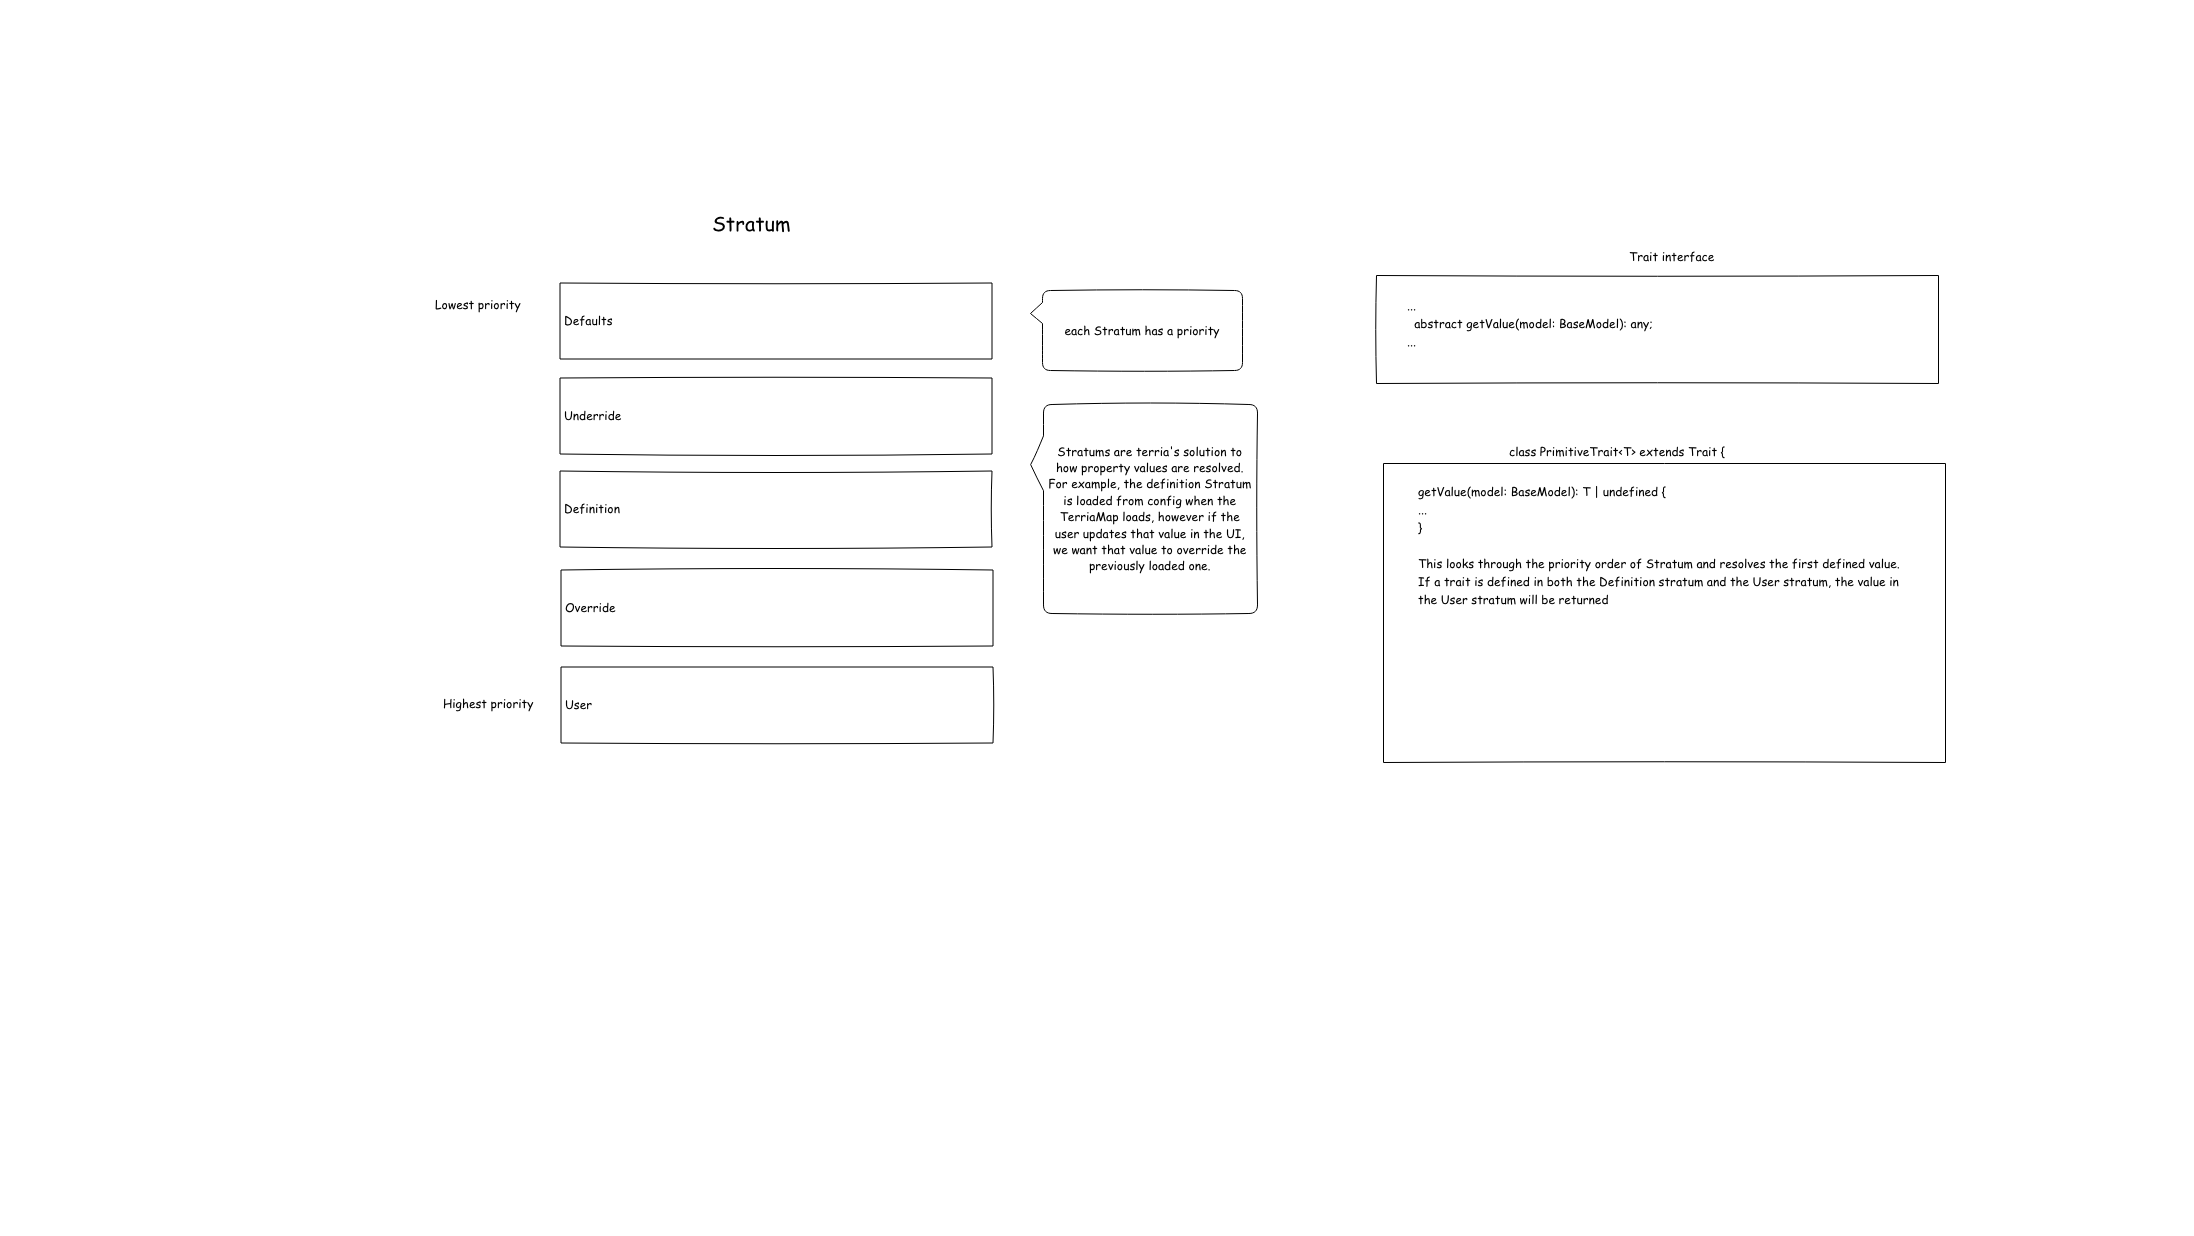
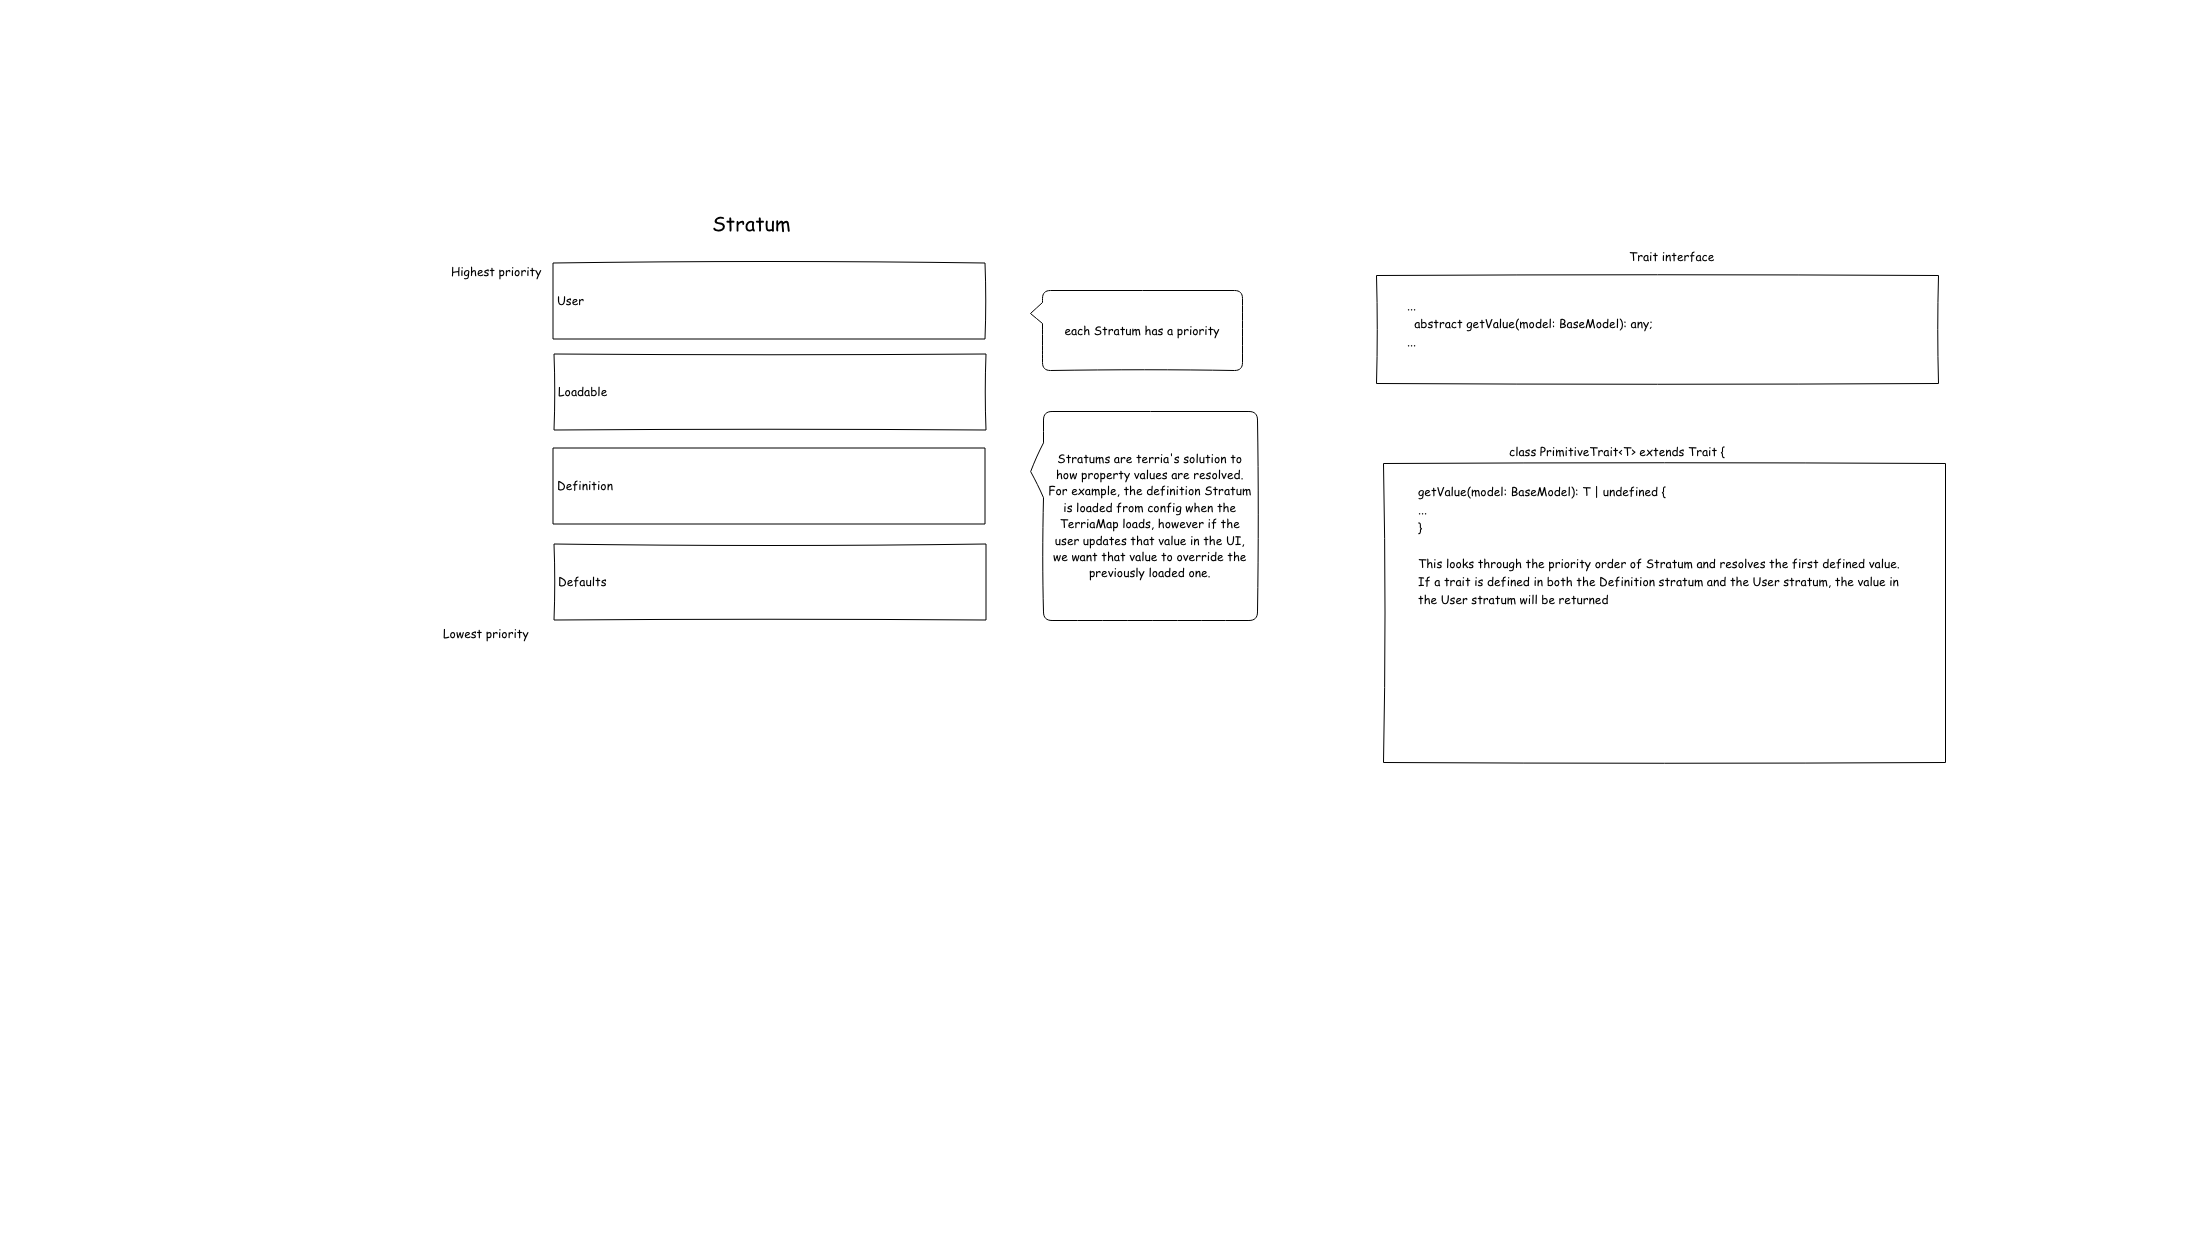
fixed pluralisation of Trait reordered Stratum to reflect what we have today

diff --git a/doc/contributing/traitsInDepth.md b/doc/contributing/traitsInDepth.md
@@ -1,13 +1,13 @@
 # Traits in Depth
 
-The Trait system is Terria's way of managing a priority order for state. For example, we might have a default opacity property from a config file that should be overriden by a user provided value. This article will go through how Traits are made, how the priority system works and how updates happen in the UI.
+The Traits system is Terria's way of managing a priority order for state. For example, we might have a default opacity property from a config file that should be overriden by a user provided value. This article will go through how Traits are made, how the priority system works and how updates happen in the UI.
 
-## Making a Trait
-![Making a trait](./img/making_a_trait.png)
+## Making Traits
+![Making Traits](./img/making_a_trait.png)
 
-For base traits such as `BaseMapsTraits`, we extend ModelTraits. However when composing multiple traits to form a new trait, we use the `mixTraits` function. For example, `ArcGisTerrainCatalogItemTraits` is composed out of `UrlTraits, MappableTraits, CatalogMemberTraits`.
+For base traits such as `BaseMapsTraits`, we extend ModelTraits. However when composing multiple traits, we use the `mixTraits` function. For example, `ArcGisTerrainCatalogItemTraits` is composed out of `UrlTraits, MappableTraits, CatalogMemberTraits`.
 
-When creating a new property within a Trait, we use [decorators](https://babeljs.io/docs/en/babel-plugin-proposal-decorators) to ensure that the field takes part in the Trait system.
+When creating a new property within a Traits class, we use [decorators](https://babeljs.io/docs/en/babel-plugin-proposal-decorators) to ensure that the field takes part in the Traits system.
 
 
 ## Stratum order model
@@ -15,19 +15,23 @@ When creating a new property within a Trait, we use [decorators](https://babeljs
 Stratums are how Terria determines which value a Trait should resolve to. There are 5 categories of Stratum:
 
 1. Defaults (lowest priority)
-2. Underride
-3. Definition
-4. Override
-5. User (highest priority)
+2. Loadable
+3. Underride
+4. Definition
+5. Override
+6. User (highest priority)
 
 ### Default Stratum
-This is the lowest priority stratum best thought of as a sensible fallback value.
+This is the lowest priority stratum best thought of as a sensible fallback value. These should only be used in Trait definitions. 
+
+### Loadable Stratum
+This is the priority level for things which require fetching from a server.
 
 ### Underride Stratum
 When loading data from external sources, we might want to set values at a lower priority. For example, if a field exists both at a group level and at an individual member level. We might want to set the value to underride at the group level so that the value can be overriden at the individual member level.
 
 ### Definition Stratum
-This is the default priority level we should use for values loaded from configuration whether it be from a config file or from an asynchronous call to an external API.
+This is the priority level we should use for values loaded from JSON initialisation (catalog) files. For more details, look at [intilization-files](../customizing/initialization-files.md).
 
 ### Override Stratum
 This is the priority level we use when we want to override a configuration value that isn't a result of a user interaction.
